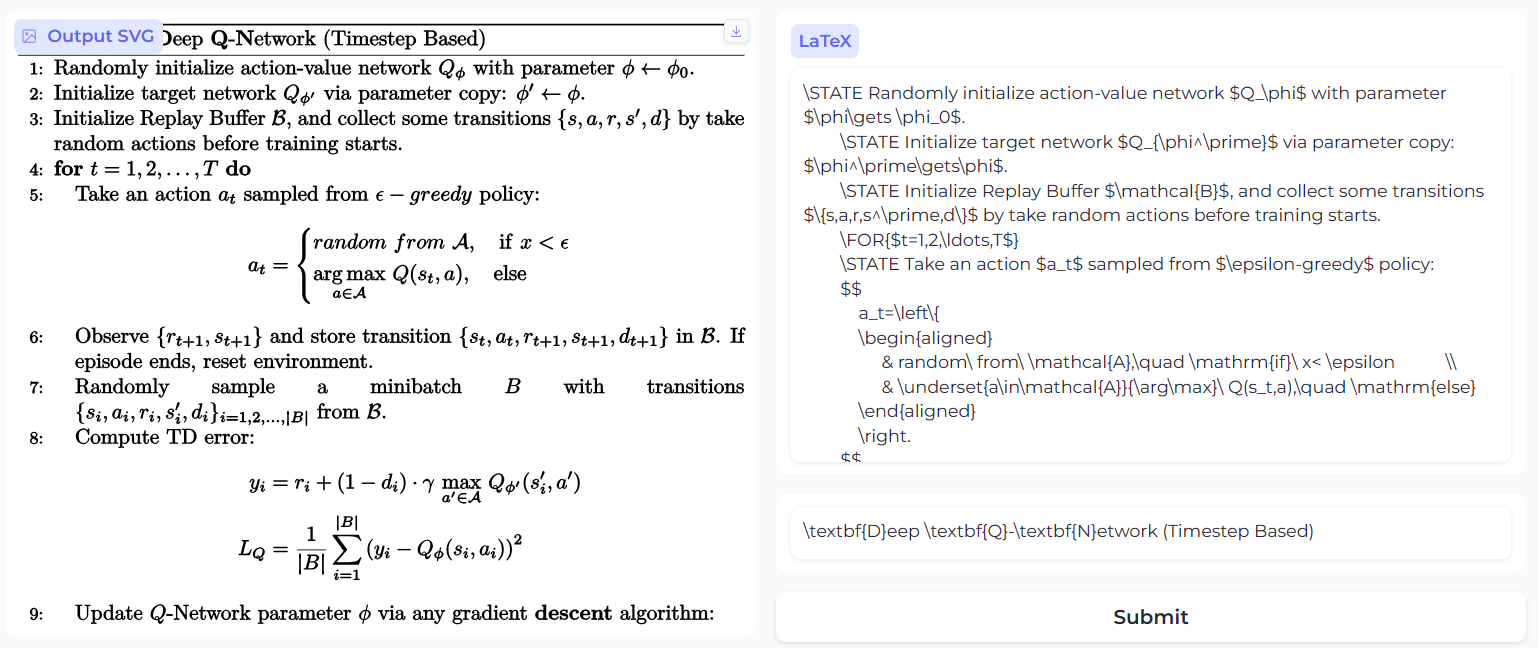
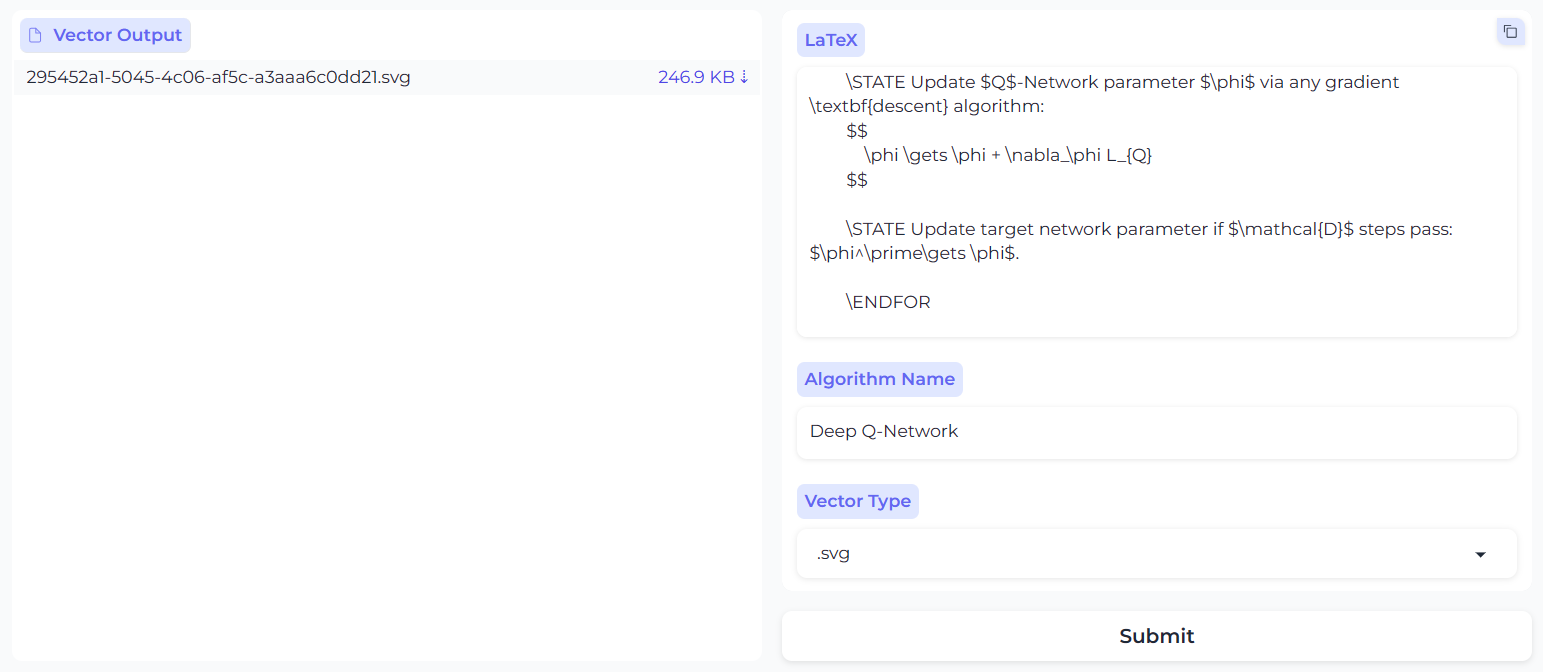
Refactor to support normal vectors rather than only SVG

diff --git a/ui.py b/ui.py
@@ -1,54 +1,56 @@
 import tempfile
 import uuid
 from pathlib import Path
-
+from core import VectorFormat
 import gradio
 import httpx
 
 
-def pipeline(latex_cmd: str, algo_name: str = None) -> str:
-    url = "http://127.0.0.1:8000/latex2svg/"
+def pipeline(
+    tex_code: str,
+    algo_name: str = "",
+    vec_type: VectorFormat = VectorFormat.SVG,
+) -> str:
+    url = "http://127.0.0.1:8000/latex2vector/"
     data = {
-        "latex_cmd": latex_cmd,
-        "type": "simple" if not bool(algo_name) else "simple_with_algo",
+        "tex_code": tex_code,
         "algo_name": algo_name,
+        "vec_type": vec_type,
     }
-    response = httpx.post(url, json=data)
-    svg_code = response.text
+    response = httpx.post(url, json=data, verify=False, timeout=10)
+    task_id = str(uuid.uuid4())
     temp_directory = Path(tempfile.gettempdir())
-    temp_svg_path = (temp_directory / str(uuid.uuid4())).with_suffix(".svg")
-    with open(temp_svg_path, "w") as f:
-        f.write(svg_code)
-    return str(temp_svg_path)
+    temp_vec_path = (temp_directory / task_id).with_suffix(vec_type)
+    with open(temp_vec_path, "wb") as f:
+        f.write(response.content)
+    return str(temp_vec_path)
 
 
 if __name__ == "__main__":
-    with gradio.Blocks(theme=gradio.themes.Soft(), title="LaTeX2SVG") as demo:
+    with gradio.Blocks(theme=gradio.themes.Soft(), title="LaTeX2Vector") as demo:
         with gradio.Row():
-            output_image_box = gradio.Image(
-                width=500,
-                height=500,
+            output_file_box = gradio.File(
                 type="filepath",
-                label="SVG Output",
+                label="Vector Output",
             )
             with gradio.Column():
                 latex_input_box = gradio.Textbox(
-                    lines=14,
-                    max_lines=14,
+                    lines=10,
+                    max_lines=10,
                     label="LaTeX",
                     placeholder="Input LaTeX code here ...",
                     show_copy_button=True,
                 )
-                with gradio.Row():
-                    algo_name_box = gradio.Textbox(
-                        show_label=False,
-                        placeholder="Algorithm name of pseudocode ...\nblank means it's a normal LaTeX math equation",
-                        show_copy_button=True,
-                    )
+                algo_name_box = gradio.Textbox(label="Algorithm Name")
+                vec_type_dropdown = gradio.Dropdown(
+                    choices=map(lambda x: x.value, VectorFormat),
+                    label="Vector Type",
+                )
                 submit_btn = gradio.Button("Submit")
+
             submit_btn.click(
                 fn=pipeline,
-                inputs=[latex_input_box, algo_name_box],
-                outputs=output_image_box,
+                inputs=[latex_input_box, algo_name_box, vec_type_dropdown],
+                outputs=output_file_box,
             )
     demo.launch(server_name="0.0.0.0", server_port=8001)

diff --git a/core.py b/core.py
@@ -1,0 +1,86 @@
+import os
+import platform
+import shlex
+import subprocess
+from enum import Enum
+from pathlib import Path
+
+if os.name == "nt":
+    gs_cmd = "gswin{}c".format(platform.architecture()[0][:2])
+elif os.name == "posix":
+    gs_cmd = "gs"
+else:
+    raise AssertionError("Unsupported OS !")
+
+kwargs = {
+    "check": True,
+    "capture_output": True,
+    "text": True,
+}
+
+
+class VectorFormat(str, Enum):
+    SVG = ".svg"
+    PDF = ".pdf"
+    EPS = ".eps"
+    EMF = ".emf"
+
+
+def latex2pdf(src: Path | str, dst: Path | str):
+    cmd = "xelatex -halt-on-error -output-directory {} {}".format(dst.parent, src)
+    cmd = shlex.split(cmd, posix=os.name == "posix")
+    subprocess.run(cmd, **kwargs)
+
+
+def crop_pdf(src: Path | str, dst: Path | str):
+    cmd = "pdfcrop {} {}".format(src, dst)
+    cmd = shlex.split(cmd, posix=os.name == "posix")
+    subprocess.run(cmd, **kwargs)
+
+
+def pdf2svg(src: Path | str, dst: Path | str):
+    assert src.suffix == VectorFormat.PDF
+    assert dst.suffix == VectorFormat.SVG
+    cmd = "pdf2svg {} {}".format(src, dst)
+    cmd = shlex.split(cmd, posix=os.name == "posix")
+    subprocess.run(cmd, **kwargs)
+
+
+def svg2vec(src: Path | str, dst: Path | str):
+    assert src.suffix == VectorFormat.SVG
+    cmd = "inkscape --export-filename={} {}".format(dst, src)
+    cmd = shlex.split(cmd, posix=os.name == "posix")
+    subprocess.run(cmd, **kwargs)
+
+
+def pdf2vec_nt(src: Path | str, dst: Path | str):
+    svg_tmp = src.with_suffix(VectorFormat.SVG)
+    pdf2svg(src, svg_tmp)
+    svg2vec(svg_tmp, dst)
+
+
+def pdf2vec_posix(src: Path | str, dst: Path | str):
+    cmd = "inkscape --export-filename={} {}".format(dst, src)
+    cmd = shlex.split(cmd, posix=os.name == "posix")
+    subprocess.run(cmd, **kwargs)
+
+
+def pdf2vec(src: Path | str, dst: Path | str):
+    if os.name == "nt":
+        pdf2vec_nt(src, dst)
+    elif os.name == "posix":
+        pdf2vec_posix(src, dst)
+    else:
+        raise AssertionError("Unsupported OS !")
+
+
+def latex2vec(src: Path | str, dst: Path | str):
+    pdf_tmp = src.with_suffix(VectorFormat.PDF)
+    latex2pdf(src, pdf_tmp)
+    crop_pdf(pdf_tmp, pdf_tmp)
+    if dst.suffix != VectorFormat.PDF:
+        pdf2vec(pdf_tmp, dst)
+
+
+if __name__ == "__main__":
+    latex2vec(Path("example.tex"), Path("example.emf"))

diff --git a/server.py b/server.py
@@ -1,0 +1,39 @@
+import tempfile
+import uuid
+from pathlib import Path
+from fastapi import FastAPI
+from fastapi.responses import FileResponse
+from jinja2 import Environment, FileSystemLoader
+from pydantic import BaseModel
+from core import VectorFormat, latex2vec
+
+app = FastAPI()
+temp_dir = Path(tempfile.gettempdir())
+template_env = Environment(
+    variable_start_string=r"{{{",
+    variable_end_string=r"}}}",
+    loader=FileSystemLoader(Path(__file__).parent / "templates"),
+)
+
+
+class TaskData(BaseModel):
+    tex_code: str
+    algo_name: str = ""
+    vec_type: VectorFormat
+
+
+@app.post("/latex2vector/")
+def api_convert(task_data: TaskData):
+    task_id = str(uuid.uuid4())
+    task_dir = temp_dir / task_id
+    task_dir.mkdir()
+    if bool(task_data.algo_name):
+        tex_f_str = template_env.get_template("algo.jinja2").render(code=task_data.tex_code, name=task_data.algo_name)
+    else:
+        tex_f_str = template_env.get_template("simple.jinja2").render(code=task_data.tex_code)
+    tex_path = task_dir / "{}.tex".format(task_id)
+    vec_path = tex_path.with_suffix(task_data.vec_type)
+    with open(tex_path, "w") as f:
+        f.write(tex_f_str)
+    latex2vec(tex_path, vec_path)
+    return FileResponse(vec_path)

diff --git a/README.md b/README.md
@@ -1,74 +1,60 @@
-LaTeX2SVG
-> a typical pipeline converting LaTeX equation to SVG image, accessed by API or WebUI, just a toy
->
-> support two mode:
->
-> - simple LaTeX equation
->
->   <img src="./assets/ui_simple_latex.png" alt="image-20231224222451975" style="zoom: 50%;" />
->
-> - pseudocode with `algorithmic` grammar
->
->   <img src="./assets/ui_pseudocode.png" alt="image-20231224222451975" style="zoom: 50%;" />
+# LaTeX2Vector
+
+A typical pipeline converting LaTeX math equation/pseudocode to vector graphics, accessed by WebUI, just a toy
+
+### Two Mode
+
+- simple LaTeX equation
+
+  <img src="./assets/ui_simple_latex.png" alt="image-20231224222451975" style="zoom: 50%;" />
+
+- pseudocode with `algorithmic` grammar
+
+  <img src="./assets/ui_pseudocode.png" alt="image-20231224222451975" style="zoom: 50%;" />
+  
+  
+  
+### Four Vector Format
+
+- SVG
+- PDF
+- EPS
+- EMF
+
+### Arch
+
 ```mermaid
 graph TD;
-    A[LaTeX string]-->|embedding in preset tex template|B[LaTeX file];
-    B-->|xelatex|C[PDF file]
-    C-->|pdfcrop|D[Cropped PDF file]
-    D-->|pdf2svg|E[SVG Image]
+A[LaTeX Code]-->|embedding in preset tex template|B[LaTeX file];
+B-->|xelatex|C[PDF file]
+C-->|pdfcrop|D[Cropped PDF file]
+D-->E[v2v]
+E-->PDF
+E-->SVG
+E-->EPS
+E-->EMF
+
 ```
 
 
 ### How to use
 
-1. install `Texlive` and `pdf2svg`
+1. install `Texlive`
 ```bash
 sudo apt-get install texlive-full
 sudo apt-get install texlive-xetex
-sudo apt-get install pdf2svg
 ```
 3. install `fastapi` for API access, `jinja2` for template matching
 
 ```bash
-pip install fastapi jinja2 uvicorn latex2mathml
+pip install fastapi jinja2 uvicorn
 ```
 4. start server
 
 ```bash
 uvicorn serve:app --port 8000 --host 0.0.0.0
 ```
-5. now you can use via `HTTP POST` request via any client, for example, `curl`:
-
-```bash
-curl -X POST \
-  -H "Content-Type: application/json" \
-  --data '{
-    "latex_cmd": "L_{Q}=\\frac{1}{|B|}\\sum_{i=1}^{|B|}\\left( y_i-Q_\\phi(s_i,a_i) \\right)^2",
-    "type": "simple",
-    "download": "false"
-  }' \
-  http://127.0.0.1:8000/latex2svg/
-```
-response:
-```
-<?xml version="1.0" encoding="UTF-8"?>
-<svg xmlns="http://www.w3.org/2000/svg" xmlns:xlink="http://www.w3.org/1999/xlink" width="145pt" height="42pt" viewBox="0 0 145 42" version="1.1">
-<defs>
-<g>
-<symbol overflow="visible" id="glyph0-0">
-<path style="stroke:none;" d=""/>
-</symbol>
-<symbol overflow="visible" id="glyph0-1">
-<path style="stroke:none;
-...
-
-```
-save the svg code to file, you can get the svg image:<br>
-![svg](./assets/example.svg)
-
-Besides, if you request from a browser, and set query param `download=true`, the svg image will be downloaded automatically.
-
-6. install `Gradio` for WebUI access,  the project provides a simple UI built by [Gradio](https://www.gradio.app/)
+5. install `Gradio` for WebUI access,  the project provides a simple UI built by [Gradio](https://www.gradio.app/)
 
 ```bash
 pip install gradio
